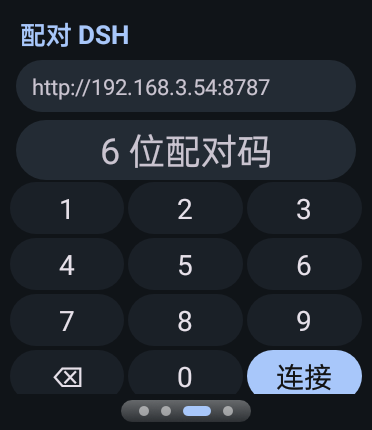
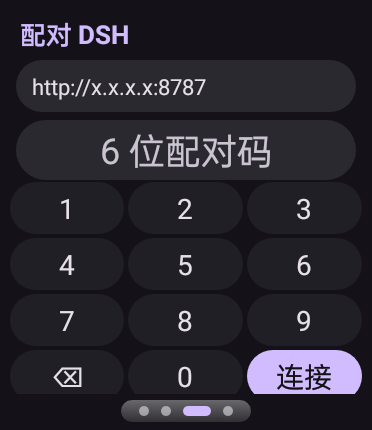
docs: reshoot screenshots with demo data (no private session titles)

diff --git a/android/src/io/dsh/watch/MainActivity.java b/android/src/io/dsh/watch/MainActivity.java
@@ -106,6 +106,7 @@ public class MainActivity extends Activity {
     };
 
     void applyTheme(int index) {
+        Log.i(TAG, "applyTheme " + index);
         int[] t = THEMES[Math.floorMod(index, THEMES.length)];
         C_BG = t[0];
         C_CARD = t[1];
@@ -119,9 +120,12 @@ public class MainActivity extends Activity {
         C_TEXT = 0xFFE6E0E9;
         C_MUTED = 0xFFCAC4D0;
         C_LINE = 0xFF49454F;
+        Log.i(TAG, "  bg=" + Integer.toHexString(C_BG) + " accent=" + Integer.toHexString(C_ACCENT));
     }
 
     static final String PREFS = "dshwatch";
+    static final int DEFAULT_PORT = 8787;
+    static final String PREFILL_URL = "http://x.x.x.x:8787";
     static final String CHANNEL_DONE = "done";
     static final int NOTE_ID = 1001;
     /** Sessions that finished a turn and were not opened since. */
@@ -781,6 +785,7 @@ public class MainActivity extends Activity {
     }
 
     void buildPairPage(String message) {
+        Log.i(TAG, "buildPairPage bg=" + Integer.toHexString(C_BG));
         if (screenPair == null) {
             screenPair = page();
             pairScroll = new ScrollView(this);
@@ -804,24 +809,28 @@ public class MainActivity extends Activity {
         pairContent.addView(head, fullWidth());
 
         // Empty on purpose: the last-used address is only a hint. Typing wins.
-        pairUrl = edit(typedUrl == null ? "" : typedUrl);
-        pairUrl.setHint(TextUtils.isEmpty(baseUrl) ? "http://服务器:8787" : baseUrl);
+        // Boilerplate is prefilled (typing "http://" on a watch is painful) and
+        // selected, so the first keystroke replaces it. The saved address is
+        // never echoed: this page ends up in screenshots.
+        // Both ends of the address are prefilled; the cursor sits right after
+        // "http://" so only the host has to be typed.
+        pairUrl = edit(TextUtils.isEmpty(typedUrl) ? PREFILL_URL : typedUrl);
+        pairUrl.setHint("http://服务器:8787");
+        pairUrl.setSelectAllOnFocus(false);
         pairUrl.setTextSize(TypedValue.COMPLEX_UNIT_SP, 11);
         pairUrl.setSingleLine(true);
-        pairUrl.setCursorVisible(false);
-        pairUrl.setShowSoftInputOnFocus(false);
-        pairUrl.setFocusableInTouchMode(false);
-        pairUrl.setOnLongClickListener(new View.OnLongClickListener() {
+        // The address must stay typeable: normal focus, normal keyboard.
+        pairUrl.setCursorVisible(true);
+        pairUrl.setFocusableInTouchMode(true);
+        pairUrl.setShowSoftInputOnFocus(true);
+        pairUrl.setOnClickListener(new View.OnClickListener() {
             @Override
-            public boolean onLongClick(View v) {
-                // Deliberate edit: long-press hands the field to the real keyboard.
-                pairUrl.setFocusableInTouchMode(true);
+            public void onClick(View v) {
                 pairUrl.requestFocus();
-                pairUrl.setCursorVisible(true);
-                pairUrl.setShowSoftInputOnFocus(true);
+                // Select the host placeholder so the first keystroke replaces it.
+                if (PREFILL_URL.equals(pairUrl.getText().toString())) pairUrl.setSelection(7, 14);
                 InputMethodManager imm = (InputMethodManager) getSystemService(INPUT_METHOD_SERVICE);
                 if (imm != null) imm.showSoftInput(pairUrl, InputMethodManager.SHOW_IMPLICIT);
-                return true;
             }
         });
         pairContent.addView(pairUrl, lp(-1, dp(26), 8, 2, 8, 0));
@@ -884,8 +893,8 @@ public class MainActivity extends Activity {
         if ("连接".equals(key)) {
             String url = pairUrl.getText().toString().trim();
             String code = pairCode.getText().toString().trim();
-            if (TextUtils.isEmpty(url)) {
-                // Nothing typed: fall back to the address this watch last used.
+            if (TextUtils.isEmpty(url) || hostMissing(url)) {
+                // Only the boilerplate is left: reuse the address this watch last used.
                 url = baseUrl == null ? "" : baseUrl;
             }
             if (TextUtils.isEmpty(url) || code.length() < 4) {
@@ -908,6 +917,7 @@ public class MainActivity extends Activity {
         }
         selectedId = null;
         if (screenList == null) {
+            Log.i(TAG, "buildList bg=" + Integer.toHexString(C_BG));
             screenList = page();
 
             LinearLayout head = row();
@@ -1535,6 +1545,7 @@ public class MainActivity extends Activity {
     }
 
     void selectTheme(int index) {
+        Log.i(TAG, "selectTheme " + index);
         prefs.edit().putInt("theme", index).apply();
         applyTheme(index);
         root.setBackgroundColor(C_BG);
@@ -1814,10 +1825,26 @@ public class MainActivity extends Activity {
         }
     }
 
+    /** True when only the boilerplate is there: the host part is empty. */
+    static boolean hostMissing(String url) {
+        String out = url.trim();
+        int at = out.indexOf("://");
+        String rest = at >= 0 ? out.substring(at + 3) : out;
+        if (rest.startsWith(":")) rest = rest.substring(1);
+        int colon = rest.indexOf(":");
+        String host = colon >= 0 ? rest.substring(0, colon) : rest;
+        return host.isEmpty() || host.equals("x.x.x.x");
+    }
+
     static String normalize(String url) {
         String out = url.trim();
         if (!out.startsWith("http://") && !out.startsWith("https://")) out = "http://" + out;
         while (out.endsWith("/")) out = out.substring(0, out.length() - 1);
+        // Typing just "192.168.1.5" should be enough: fill in the default port.
+        String rest = out.substring(out.indexOf("://") + 3);
+        if (out.startsWith("http://") && !rest.contains(":") && !rest.contains("/")) {
+            out = out + ":" + DEFAULT_PORT;
+        }
         return out;
     }
 }

diff --git a/README.md b/README.md
@@ -13,17 +13,21 @@ The pairing code is never rendered on a web page and never printed to the log:
 you ask the agent for it and it calls the `watch_pair_code` tool.
 
 ![会话列表](docs/shots/screen-talk.png)
-![配对页](docs/shots/screen-pair.png)
+![审批卡片](docs/shots/screen-approval.png)
 
 <br>
 
+![配对页](docs/shots/screen-pair.png)
 ![主题色](docs/shots/screen-theme.png)
+
+<br>
+
+![发给 DSH](docs/shots/screen-say.png)
 ![退出页](docs/shots/screen-exit.png)
 
 <sub>四页横滑：退出 ← 对话 → 配对 → 主题。底部玻璃胶囊显示当前页。</sub>
 
-![发给 DSH](docs/shots/screen-say.png)
-![任务完成红点](docs/shots/screen-done.png)
+![任务跑完的红点](docs/shots/screen-done.png)
 
 ## Quick start (English)
 
